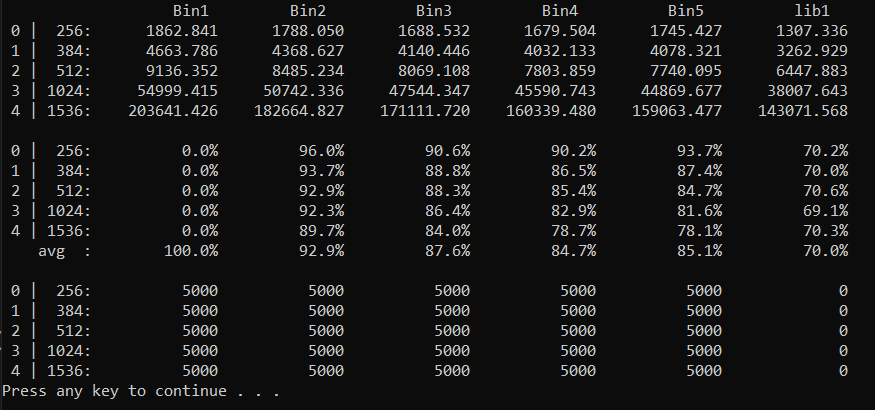
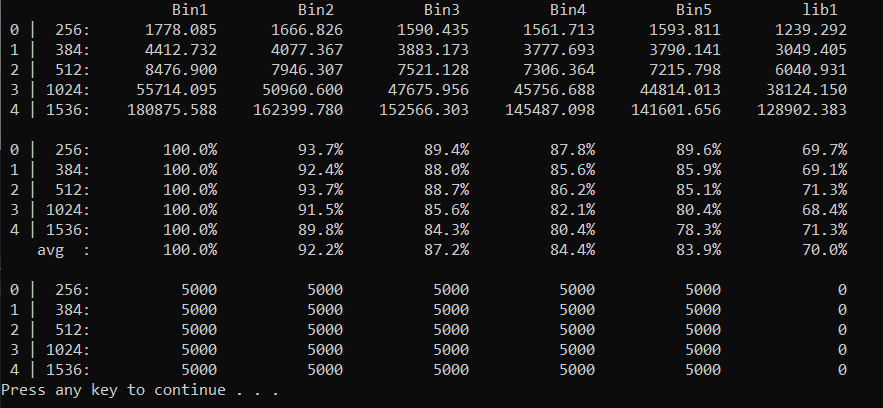
update result_bins

diff --git a/BinModSexp/new_tests.cpp b/BinModSexp/new_tests.cpp
@@ -33,41 +33,41 @@ void compares(int len, big P, csprng &Rng, Result &res)
 			dur1 = getTickCount(&timer1);
 			min1 = (min1 < dur1) ? min1 : dur1;
 
-			// JSF2
+			// bin2
 			startTimer(&timer2);
 			ShamirDecomposit(k, a, b, X, Y, P);
-			//powmod2_Bin(X, a, Y, b, P, R2);		// R2 = X^a * Y^b mod P
-			powmod_JSF(X, a, Y, b, P, R2);		// R2 = X^a * Y^b mod P
+			powmod2_Bin(X, a, Y, b, P, R2);		// R2 = X^a * Y^b mod P
+			//powmod_JSF(X, a, Y, b, P, R2);		// R2 = X^a * Y^b mod P
 			//powmod2(X, a, Y, b, P, R2);
 			stopTimer(&timer2);
 			dur2 = getTickCount(&timer2);
 			min2 = (min2 < dur2) ? min2 : dur2;
 
-			// JSF3
+			// bin3
 			startTimer(&timer3);
 			ShamirDecomposit3(k, g, r, y, P);
-			//powmod3_Bin(r, y, P, R3);			// R3 = y1^r1 * y2^r2 * y3^r3
-			powmod_dJSF(3, y, r, P, R3);
+			powmod3_Bin(r, y, P, R3);			// R3 = y1^r1 * y2^r2 * y3^r3
+			//powmod_dJSF(3, y, r, P, R3);
 			//powmodn(3, y, r, P, R3);
 			stopTimer(&timer3);
 			dur3 = getTickCount(&timer3);
 			min3 = (min3 < dur3) ? min3 : dur3;
 
-			// JSF4
+			// bin4
 			startTimer(&timer4);
 			ShamirDecomposit_n(4, k, g, r, y, P);
-			//powmodn_Bin(4, r, y, P, R4);		// R4 = y1^r1 * ...* y4^r4
-			powmod_dJSF(4, y, r, P, R4);
+			powmodn_Bin(4, r, y, P, R4);		// R4 = y1^r1 * ...* y4^r4
+			//powmod_dJSF(4, y, r, P, R4);
 			//powmodn(4, y, r, P, R4);
 			stopTimer(&timer4);
 			dur4 = getTickCount(&timer4);
 			min4 = (min4 < dur4) ? min4 : dur4;
 
-			// JSF5
+			// bin5
 			startTimer(&timer5);
 			ShamirDecomposit_n(5, k, g, r, y, P);
-			//powmodn_Bin(5, r, y, P, R5);
-			powmod_dJSF(5, y, r, P, R5);
+			powmodn_Bin(5, r, y, P, R5);
+			//powmod_dJSF(5, y, r, P, R5);
 			//powmodn(5, y, r, P, R5);
 			stopTimer(&timer5);
 			dur5 = getTickCount(&timer5);
@@ -117,7 +117,8 @@ void compares(int len, big P, csprng &Rng, Result &res)
 void printcompares(Result res[NUM_OF_P + 1], int *m)
 {
 	const int ilib = 5;
-	res[NUM_OF_P].p[0] = 100;
+
+	for (int i = 0; i <= NUM_OF_P; i++) res[i].p[0] = 100;
 
 	for (int i = 1; i <= ilib; i++) {
 		res[NUM_OF_P].p[i] = res[0].p[i] + res[1].p[i]

diff --git a/BinModSexp/main.cpp b/BinModSexp/main.cpp
@@ -42,7 +42,7 @@ int main()
 		//cout << endl;
 	}
 	//cout << setw(19) << "" << "n=1           n=2           n=3           n=4           n=5        lib(n=4)\n";
-	cout << setw(19) << "" <<   "Bin1          JSF2          JSF3          JSF4          JSF5          lib1\n";
+	cout << setw(19) << "" <<   "Bin1          Bin2          Bin3          Bin4          Bin5          lib1\n";
 	printcompares(res, m);
 	//cout << setw(19) << "" <<   "Bin2           JSF         JSFgl          lib3\n";
 	//printBins(res, m);
